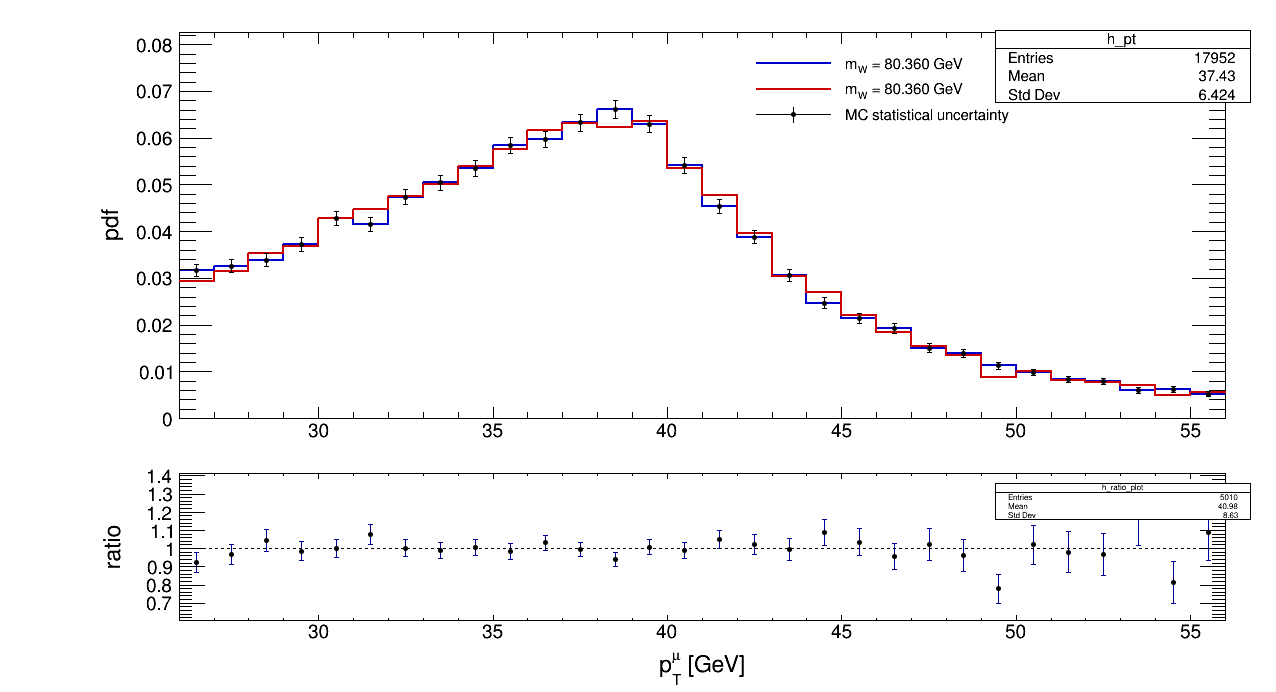
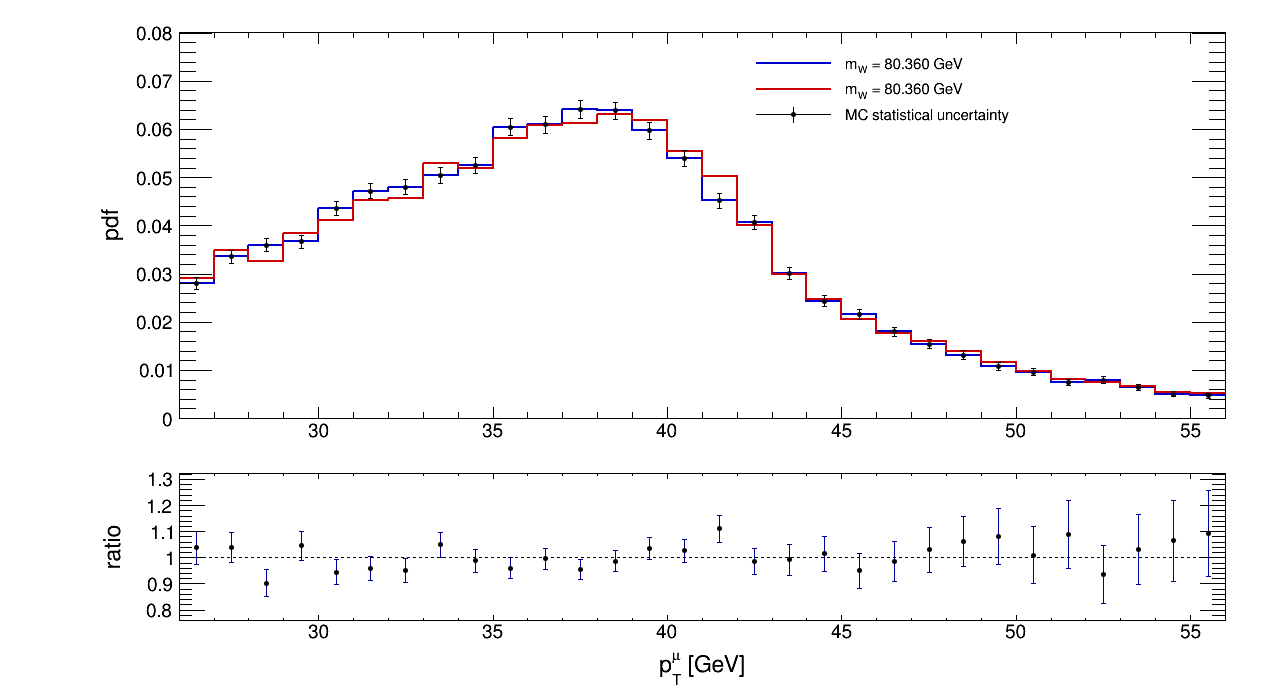
dimenticato di togliere le stats di root

diff --git a/src/HistUtils.cpp b/src/HistUtils.cpp
@@ -86,6 +86,11 @@ TemplateComparison::TemplateComparison(TH1* nominal, TH1* shifted,const CanvasPr
 
     Error->SetMarkerStyle(20);
     Error->SetMarkerSize(0.65);
+
+    Nominal->SetStats(false);
+    Shifted->SetStats(false);
+    Ratio->SetStats(false);
+    Error->SetStats(false);
 }
 void TemplateComparison::save_as(const std::string& path)
 {
